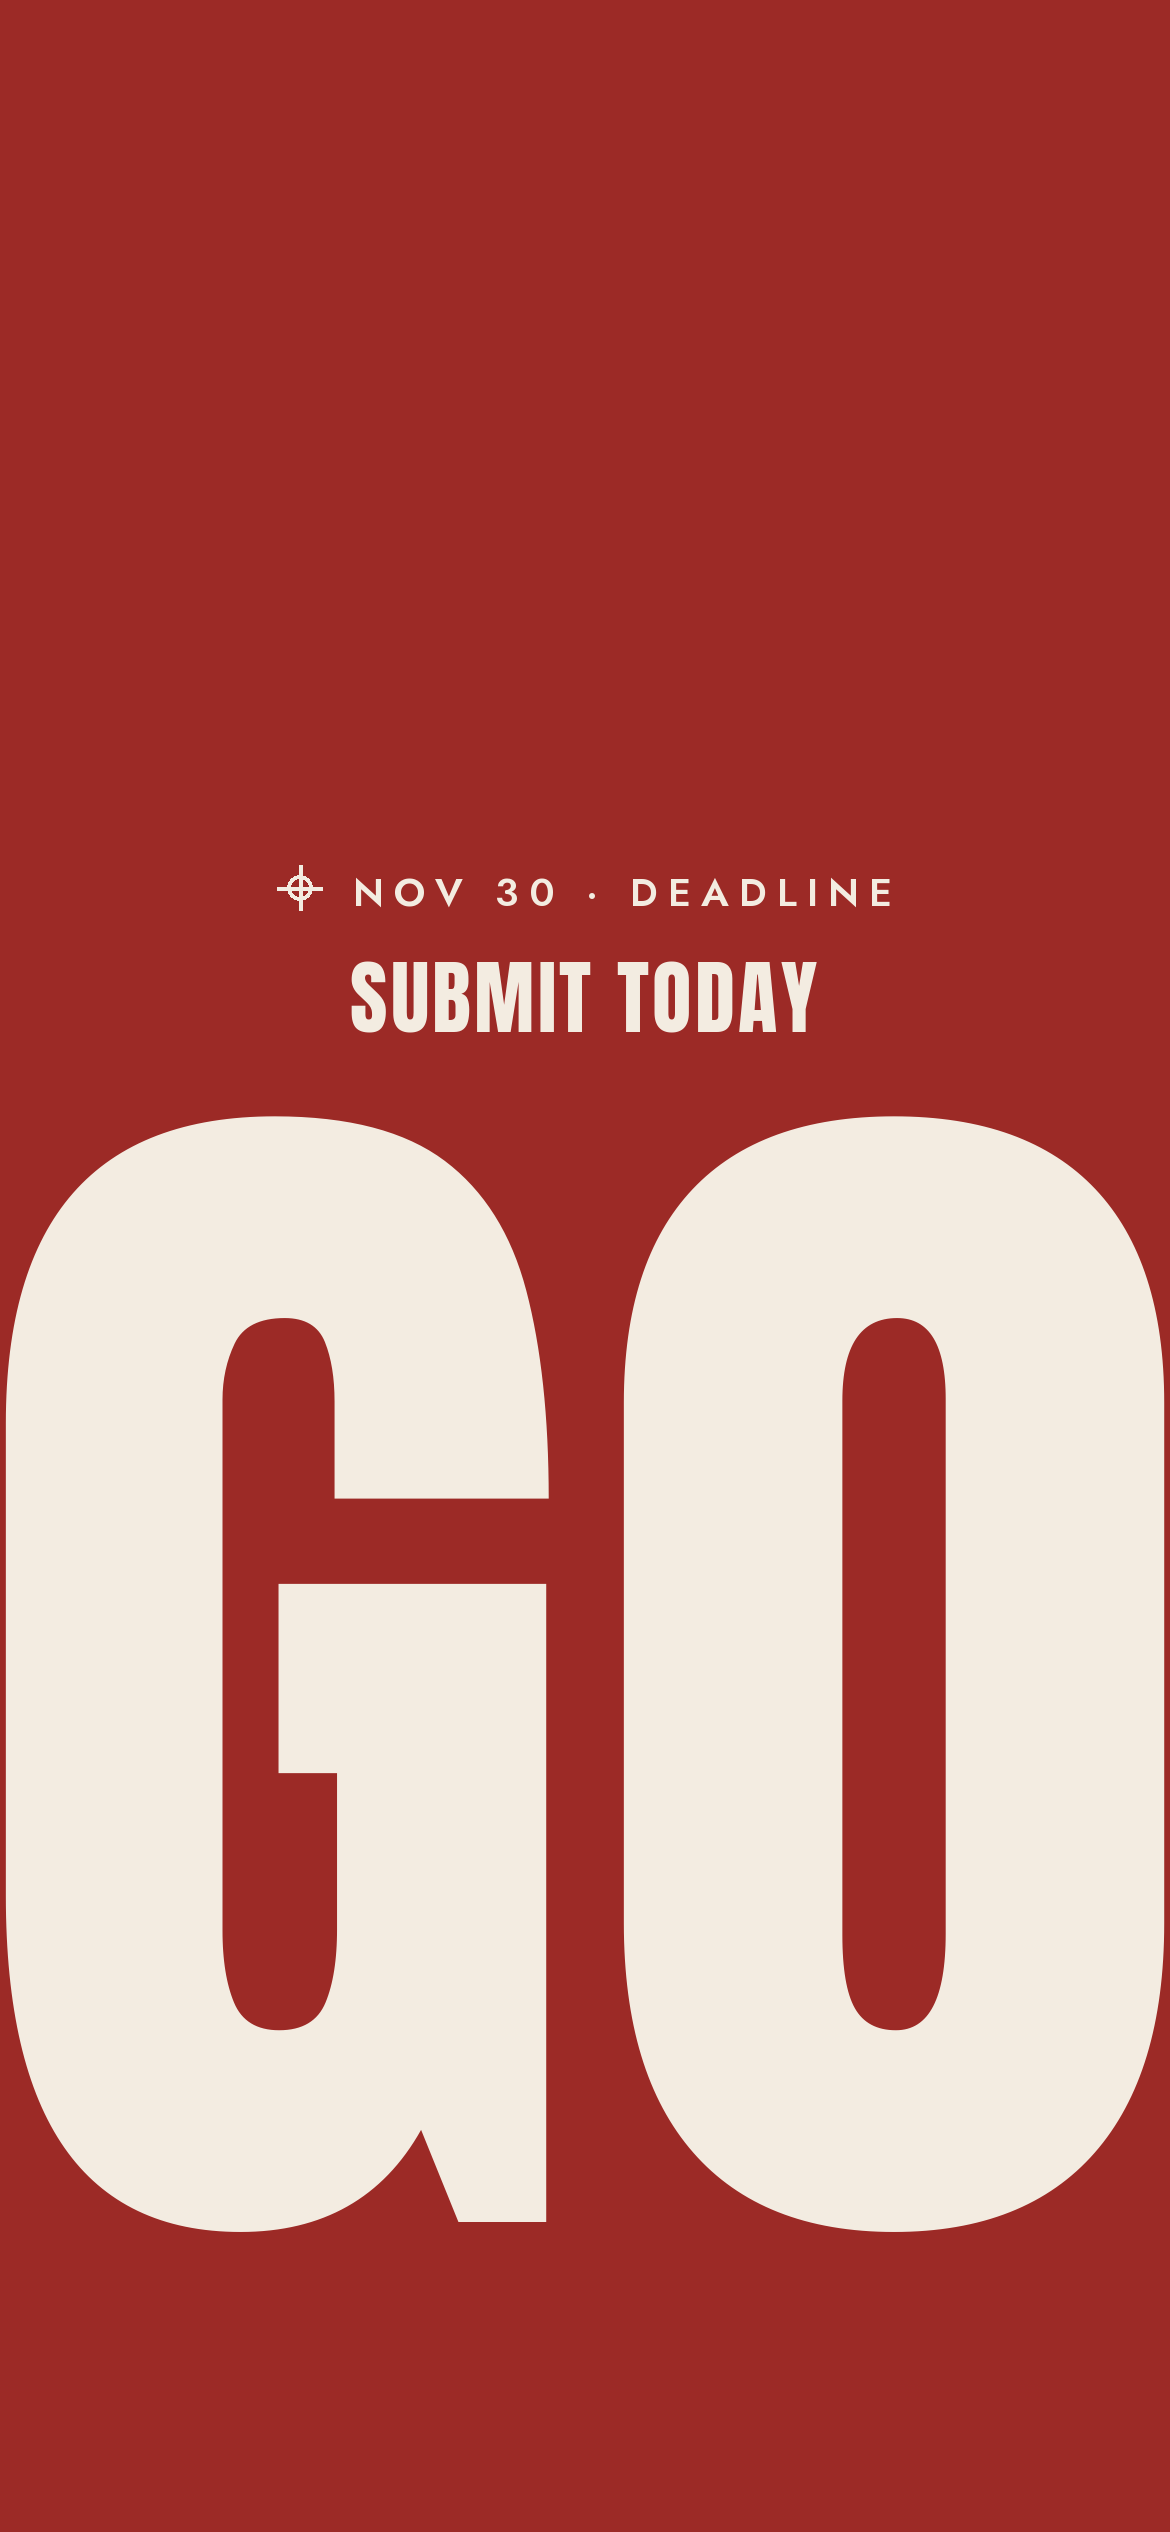
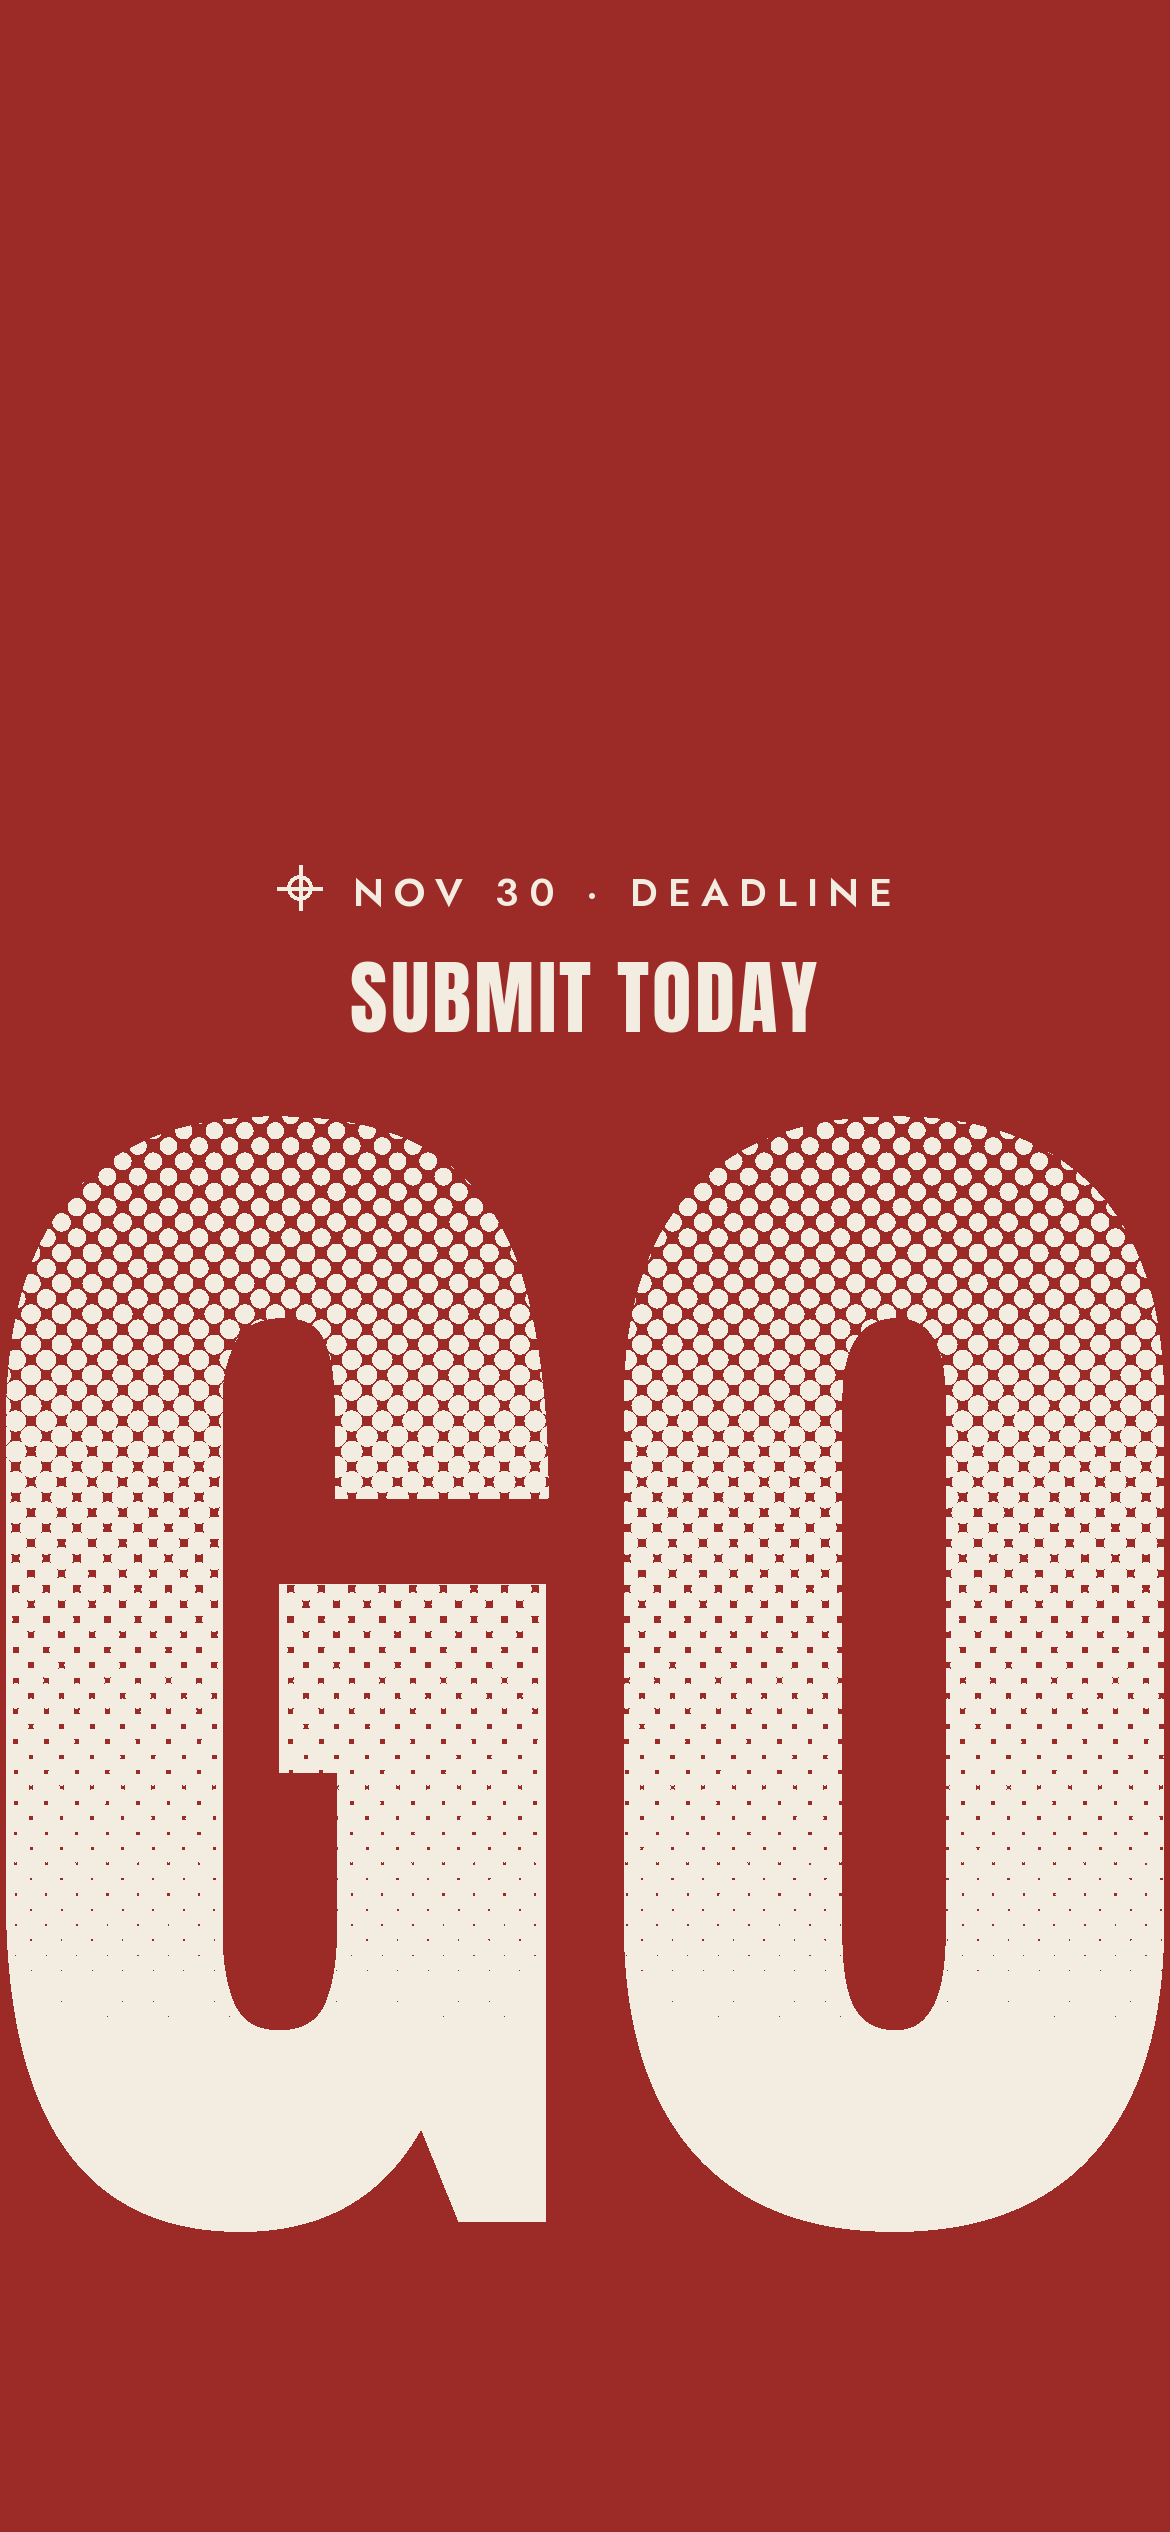
GO printed as a cream halftone, matching the numbers
Claude-Session: https://claude.ai/code/session_012VPTKpptcLWXsCsz6Lu5Er

diff --git a/index.html b/index.html
@@ -378,6 +378,16 @@ function texture(S,scheme){
   }
   x.putImageData(img,0,0);TEX[key]=c;return c;
 }
+function goHalftone(ctx,S,alpha){
+  /* GO in cream, printed as a halftone that builds into solid ink toward the bottom */
+  var W=BW*S,H=BH*S,m=document.createElement("canvas");m.width=W;m.height=H;var mx=m.getContext("2d");big(mx,S,"GO",425,0,0,"#000",1,372);
+  mx.font=(425*S)+"px Anton, Impact, 'Arial Narrow', sans-serif";var mt=mx.measureText("GO"),y0=372*S,y1=y0+mt.actualBoundingBoxAscent+mt.actualBoundingBoxDescent;
+  var dc=document.createElement("canvas");dc.width=W;dc.height=H;var dx=dc.getContext("2d");dx.fillStyle=C.cream;
+  var sp=7.2*S,ca=Math.SQRT1_2,R=Math.ceil(Math.hypot(W,H)/sp)+2;
+  for(var u=-R;u<=R;u++)for(var v=-R;v<=R;v++){var px=(u*ca-v*ca)*sp,py=(u*ca+v*ca)*sp;if(px<-sp||px>W+sp||py<y0-sp||py>H+sp)continue;
+    var t=Math.max(0,Math.min(1,(py-y0)/Math.max(1,y1-y0))),r=sp*(0.40+0.38*Math.pow(t,1.1));dx.beginPath();dx.arc(px,py,r,0,Math.PI*2);dx.fill();}
+  dx.globalCompositeOperation="destination-in";dx.drawImage(m,0,0);ctx.globalAlpha=alpha;ctx.drawImage(dc,0,0);ctx.globalAlpha=1;
+}
 function caption(ctx,S,a,color){tracked(ctx,S,a,SAFE*S,600,13,color,true);}
 function layers(ctx,S,scheme,text,fs,g,top,solid){
   /* back layer: red printed as a halftone that grows into solid ink toward the bottom; front layer solid */
@@ -415,7 +425,7 @@ function draw(ctx,S,scheme,n,p){
     var r=p===undefined?1:(p-0.55)/0.45, e=1-Math.pow(1-r,3);
     if(r<1){layers(ctx,S,scheme,"GO",425,0,372,true);}
     ctx.globalAlpha=e;ctx.fillStyle=C.red;ctx.fillRect(0,0,W,H);ctx.globalAlpha=1;
-    ctx.save();var sc=1+0.06*(1-e);ctx.translate(W/2,H*0.62);ctx.scale(sc,sc);ctx.translate(-W/2,-H*0.62);big(ctx,S,"GO",425,0,0,C.cream,e,372);ctx.restore();
+    ctx.save();var sc=1+0.06*(1-e);ctx.translate(W/2,H*0.62);ctx.scale(sc,sc);ctx.translate(-W/2,-H*0.62);goHalftone(ctx,S,e);ctx.restore();
     var gc=r<0.5?ink:C.cream;caption(ctx,S,goCap,gc);headline(ctx,S,"",goLine,gc,gc);return;
   }
   var cx=W/2,cy=480*S,R=55*S,tick=scheme==="light"?C.red:C.cream;ctx.lineCap="round";ctx.lineJoin="round";
